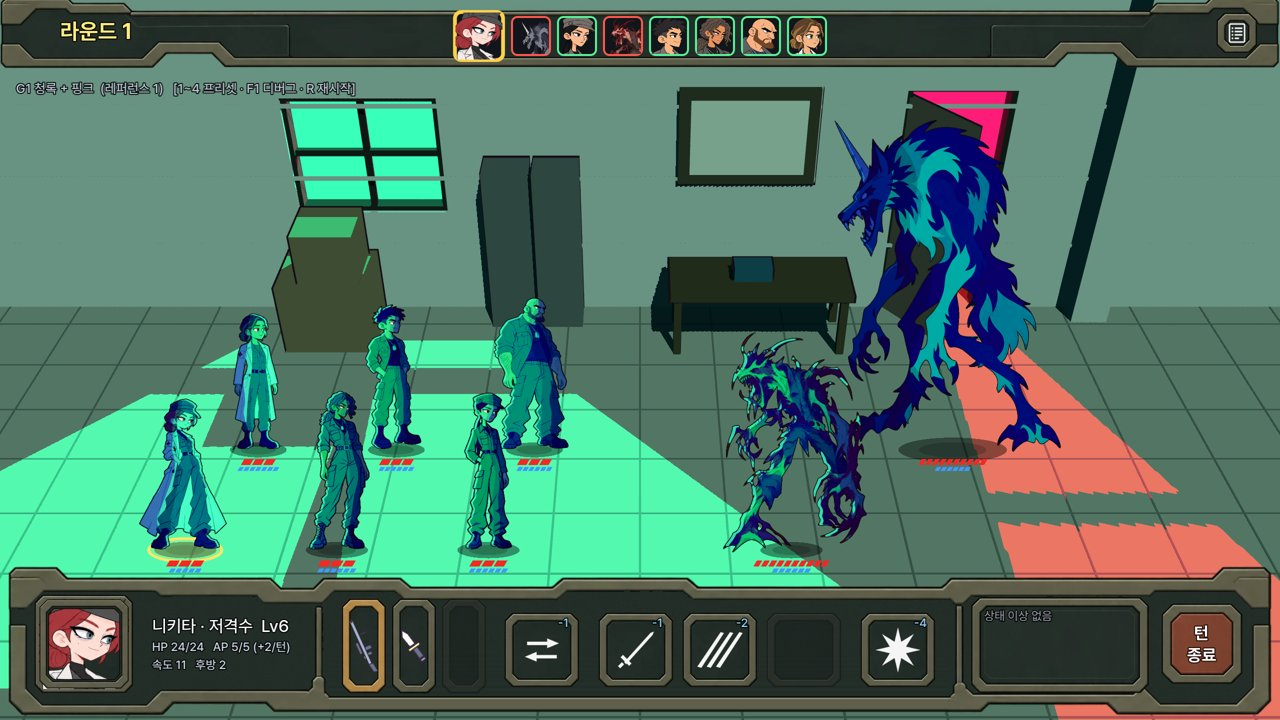
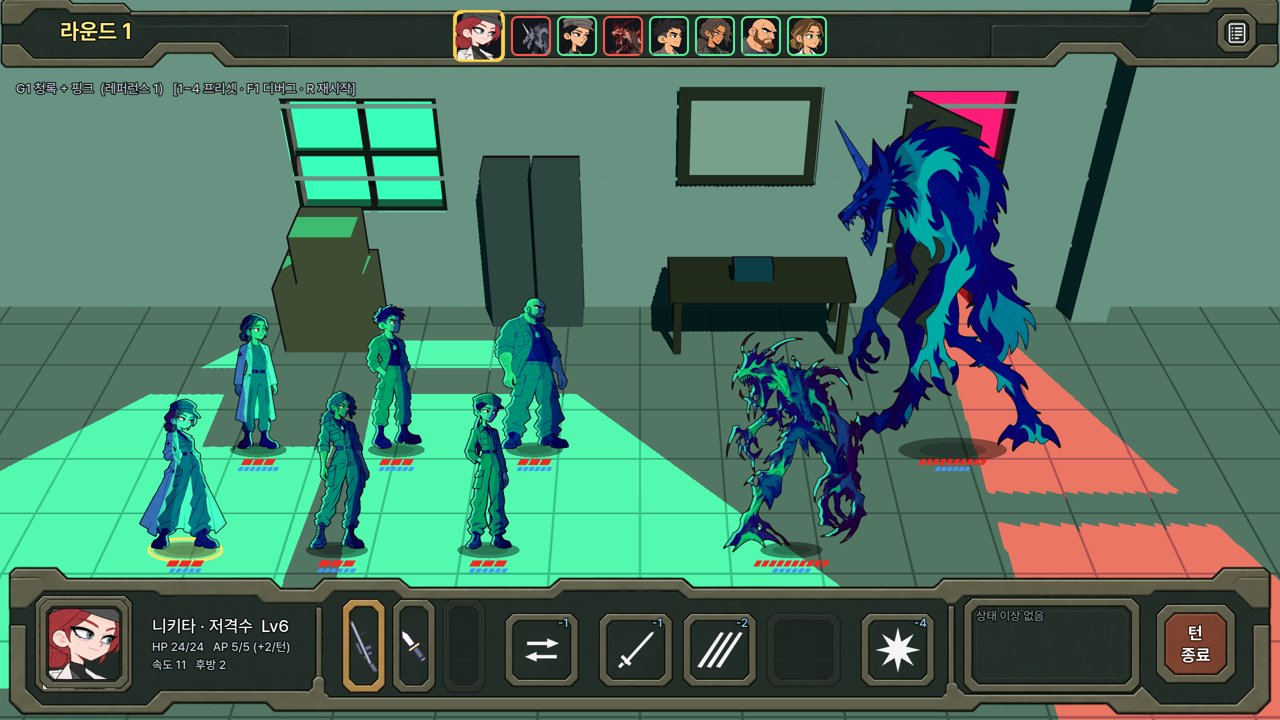
Battle UI v2: move status window and end-turn button further left again
Claude-Session: https://claude.ai/code/session_014aytw3hj7boqn3SZ5GP5ti

diff --git a/docs/design/PROTOTYPE_GDD_v1_0.md b/docs/design/PROTOTYPE_GDD_v1_0.md
@@ -4,9 +4,9 @@
 
 ## 0. 현재 구현 반영 (변경될 때마다 갱신)
 > 아래는 원 기획 이후 사용자 결정으로 바뀐 내용. 상세 결정 이력은 `00_decision_log_v1_0.md`, 아트 규격은 `../ui_art_spec.md`.
-> 마지막 갱신: 2026-10-31 (전투 상태 이상 창 · 턴 종료 조금 더 왼쪽)
+> 마지막 갱신: 2026-10-31 (전투 상태 이상 창 · 턴 종료 더 왼쪽)
 
-- **전투 UI v2** (사용자 제공 UI 패키지 art_src/ui/battle_ui_package.webp + 레퍼런스 art_src/ui/ref_battle_v2.webp → 조각 assets/ui/battle/v2/): 위 = 어두운 띠(양 끝 넓은 칸 — 왼쪽 라운드, 가운데 행동 순서, 오른쪽 기록 버튼 = 작은 사각 판), 아래 = 틀(원본 하단 바에서 안쪽 칸을 지운 bottom_shell — 칸막이 두 개를 이름 칸 오른쪽 · 상태 이상 창 왼쪽에 맞춰 늘림, 높이 150). 초상화 = 큰 사각 테두리, 무기 = 세로 판(장착 중 = 금색 판), 자리 이동 · 스킬 · 필살기 = 정사각형 판(선택 중 = 금색 테두리), 상태 이상 = 넓은 판, 턴 종료 = 붉은 판(오른쪽 틀에서 9px 띄움). 슬롯 아래 이름 글자 없음(이름 · 설명은 마우스를 올리면 말풍선), 무기 판 · 정사각형 판 모두 세로 가운데 — 스킬 구간(틀 위 띠가 아래로 튀어나온 칸) 안쪽 가운데보다 조금 아래(사용자 요청), 무기 판은 그보다 4px 위(아래 틀 띠와 위아래 여백). 행동 순서 초상화 = 위 띠 안쪽 세로 가운데(지금 차례 초상화도 가운데 기준으로 키움). 마우스 올림 = 밝게, 못 씀 = 어둡게.
+- **전투 UI v2** (사용자 제공 UI 패키지 art_src/ui/battle_ui_package.webp + 레퍼런스 art_src/ui/ref_battle_v2.webp → 조각 assets/ui/battle/v2/): 위 = 어두운 띠(양 끝 넓은 칸 — 왼쪽 라운드, 가운데 행동 순서, 오른쪽 기록 버튼 = 작은 사각 판), 아래 = 틀(원본 하단 바에서 안쪽 칸을 지운 bottom_shell — 칸막이 두 개를 이름 칸 오른쪽 · 상태 이상 창 왼쪽에 맞춰 늘림, 높이 150). 초상화 = 큰 사각 테두리, 무기 = 세로 판(장착 중 = 금색 판), 자리 이동 · 스킬 · 필살기 = 정사각형 판(선택 중 = 금색 테두리), 상태 이상 = 넓은 판, 턴 종료 = 붉은 판(오른쪽 틀에서 15px 띄움). 슬롯 아래 이름 글자 없음(이름 · 설명은 마우스를 올리면 말풍선), 무기 판 · 정사각형 판 모두 세로 가운데 — 스킬 구간(틀 위 띠가 아래로 튀어나온 칸) 안쪽 가운데보다 조금 아래(사용자 요청), 무기 판은 그보다 4px 위(아래 틀 띠와 위아래 여백). 행동 순서 초상화 = 위 띠 안쪽 세로 가운데(지금 차례 초상화도 가운데 기준으로 키움). 마우스 올림 = 밝게, 못 씀 = 어둡게.
 - **표현**: 캐릭터 2D **스프라이트 프레임 애니메이션**(**스프라이트 시트** `assets/characters/<id>/<동작>_<칸 수>.png`, 사용자가 제작 — 시트 없는 동작은 기본 그림 한 장. 현재: 하나·니키타·키라·단·이선·앨마 idle(기본 그림 숨쉬기) — 니키타(빨간 머리 의무병 코트)·키라(회색 군복, 최종)·하나(곱슬머리 군복·오른쪽 눈 아래 점, 최종)·앨마(흰 의무 가운)는 새 그림으로 교체되어 예전 걷기·피격·공격 시트는 지움) + 배경 3D(실광원·그림자). Skeleton2D 리그·3D 캐릭터 전환은 제거.
   칠 방식: **전 캐릭터 네온 칠**(선화는 원화 그대로, 면은 원화 밝기대로 조명색으로 덮음 — 어두운 면은 깊은 보라, 밝은 면은 조명색). `character.json` `"style": "classic"` 이면 예전 셀 칠, `"neon_gradient"` 0~1 = 몸 위→아래 색상 그라데이션(기본 끔).
   외곽 림(빛 반대쪽 가장자리 선): 그림 실루엣에서 셰이더가 직접 그림 — 원화 760px 기준 14px 두께, 윤곽을 따라 매끄럽게(계단 없음). 빛 반대쪽 가장자리 중 바깥이 트인 곳에만(턱 아래·밑단과 부츠 사이 같은 작은 틈 제외), 머리카락 끝 같은 가는 끝까지(림 안에선 어두운 먹선만 보존).

diff --git a/docs/design/00_decision_log_v1_0.md b/docs/design/00_decision_log_v1_0.md
@@ -678,6 +678,9 @@
 ### 2026-10-31 — 전투 상태 이상 창 · 턴 종료 조금 더 왼쪽
 - 상태 이상 창 6px 왼쪽(-304~-124 → -310~-130, 칸막이도 따라감), 턴 종료 3px 더 왼쪽(EndTurnWrap margin_right 6 → 9).
 
+### 2026-10-31 — 전투 상태 이상 창 · 턴 종료 더 왼쪽
+- 상태 이상 창 8px 더 왼쪽(-310~-130 → -318~-138), 턴 종료 6px 더 왼쪽(EndTurnWrap margin_right 9 → 15). 필살기 판 ~ 칸막이 틈 약 15px 남음.
+
 ## 검증 중 (확정 아님)
 - **배경 3D + 캐릭터 2D 하이브리드** (2026-10-25 적용): 배경은 3D 방을 2D 카메라와 같은 투영으로 렌더, 캐릭터 라이팅은 실제 광원 위치 기준
   (빛 쪽 얼굴·몸을 광원색으로 밝힘 + 빛이 뒤에서 오면 같은 쪽 가장자리 림 + 바닥 그림자). 캐릭터 2D(리그)는 확정 사항 유지. (이전 2D 배경 판은 2026-10-27 제거.)
